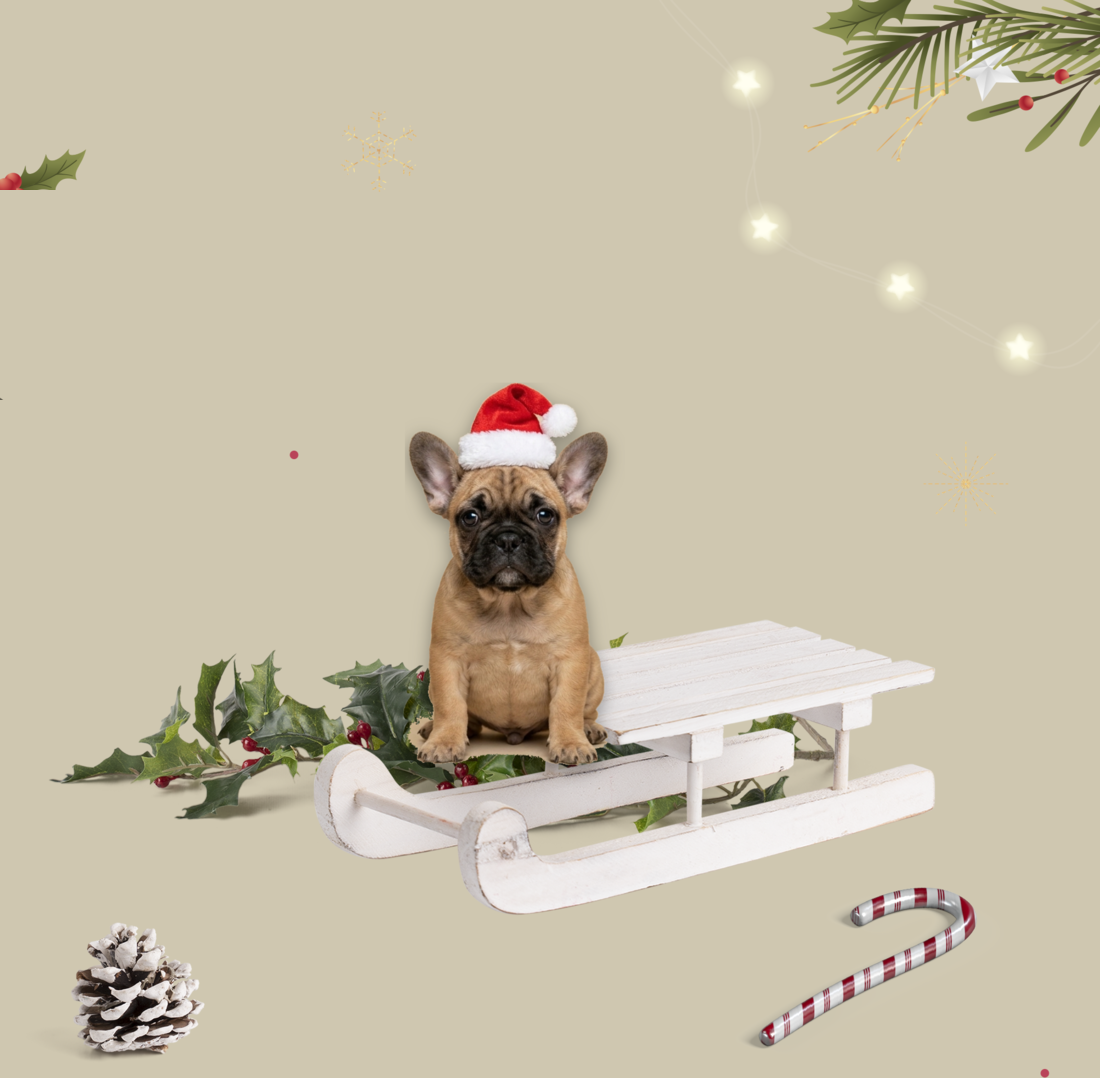
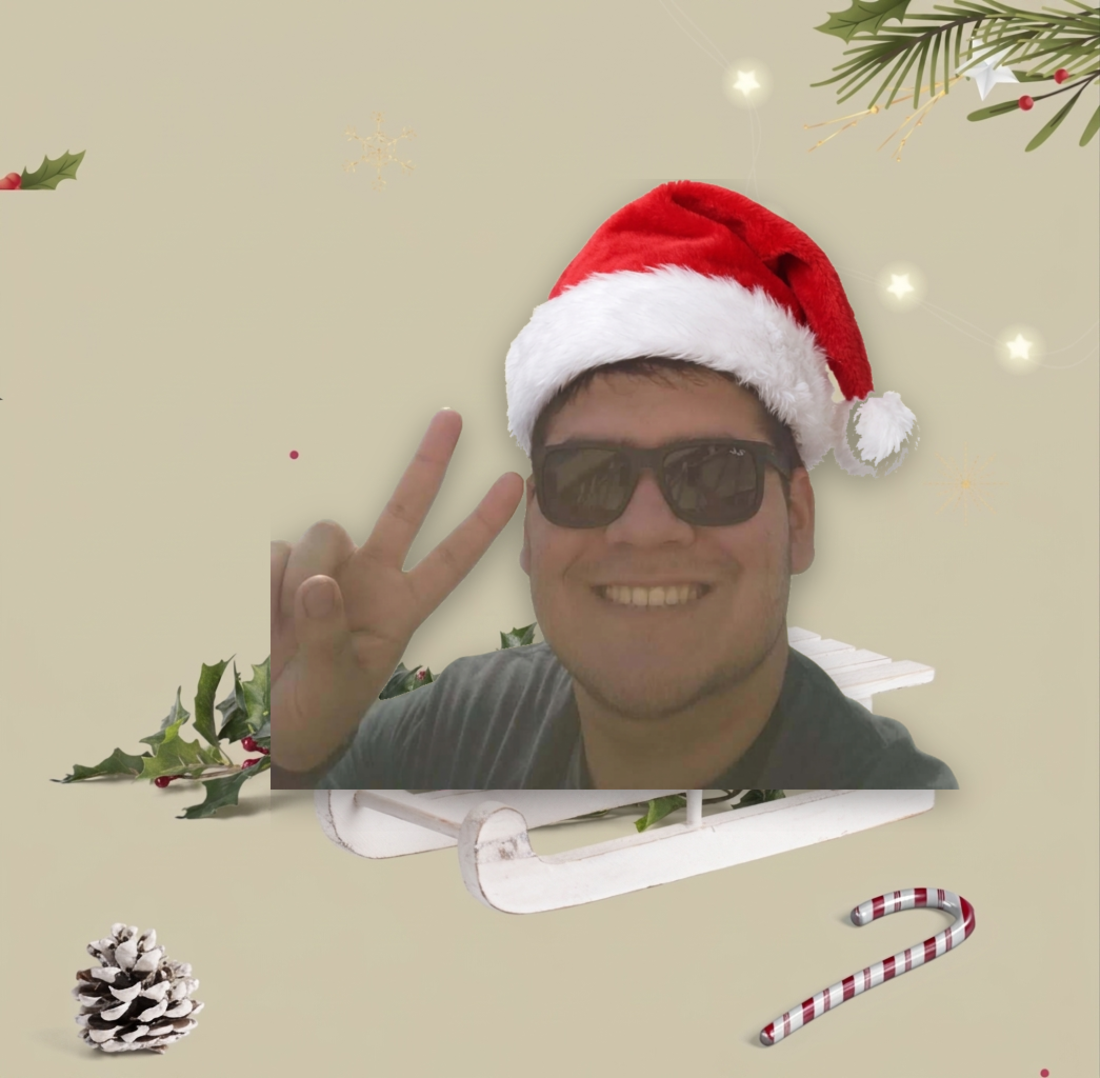
Sorteo individual por clic: derangement secreto + revelación única por usuario

Changed region(s): [[0.2164, 0.1531, 0.8655, 0.7653], [0.0927, 0.8571, 0.1855, 0.9796], [0.8655, 0.0306, 0.9273, 0.0612]]

diff --git a/backend/scripts/smoke_test.py b/backend/scripts/smoke_test.py
@@ -9,7 +9,7 @@ import re
 from fastapi.testclient import TestClient
 
 from app.main import app
-from app.models import Assignment
+from app.models import Assignment, Player
 
 # Captura los códigos "enviados por correo" (modo consola del emailer)
 codigos: dict[str, str] = {}
@@ -177,27 +177,57 @@ def main():
         assert r.status_code == 200, r.text
         print("== Enriquecer (og-tags):", r.json(), "==")
 
-        # ---- Sorteo ----
+        # ---- Sorteo individual por clics ----
         # Sin sesión de admin debe rechazar (quitamos la cookie primero)
         c.cookies.delete("admin_sesion")
-        r = c.post("/api/admin/sorteo")
-        assert r.status_code == 401, "sorteo sin admin debió dar 401"
-        c.post("/api/admin/login", json={"password": "admin-dev"})
-        r = c.post("/api/admin/sorteo")
-        assert r.status_code == 200, r.text
-        print("== Sorteo:", r.json(), "==")
-        r = c.post("/api/admin/sorteo")
-        assert r.status_code == 409, "sorteo doble debió dar 409"
+        n = len(c.get("/api/participantes").json())  # total de participantes (incluye datos reales)
+        r = c.get("/api/mi-amigo")
+        assert r.status_code == 404, "mi-amigo antes de revelar debió dar 404"
+        r = c.post("/api/sortear")
+        assert r.status_code == 200, f"primer clic debe crear el sorteo: {r.text}"
 
-        # Verificar derangement y unicidad en la BD
+        # El sorteo se creó al vuelo: config pública lo refleja
+        cfg = c.get("/api/participantes/config").json()
+        assert cfg["draw_done"] is True, cfg
+
+        # Repetir el clic da SIEMPRE el mismo asignado (nada de repetidos)
+        r = c.post("/api/sortear")
+        assert r.status_code == 200, r.text
+        primer_amigo = r.json()["name"]
+        r = c.post("/api/sortear")
+        assert r.json()["name"] == primer_amigo, "el asignado no debe cambiar entre clics"
+
+        # Cada participante revela una sola vez y todos los receptores únicos
         from app.database import SessionLocal
+        receptores = [primer_amigo]
+        for _, email in AMIGOS[1:]:
+            c.post("/api/auth/salir")
+            pedir_y_verificar(c, email)
+            r = c.get("/api/mi-amigo")
+            assert r.status_code == 404, "sin revelar, mi-amigo debió dar 404"
+            r = c.post("/api/sortear")
+            assert r.status_code == 200, r.text
+            receptores.append(r.json()["name"])
+            r = c.get("/api/mi-amigo")
+            assert r.status_code == 200, r.text
+            assert r.json()["name"] == receptores[-1]
+
+        # Nadie se regala a sí mismo ni receptores repetidos
         db = SessionLocal()
         asignaciones = db.query(Assignment).all()
-        assert len(asignaciones) == 3
+        assert len(asignaciones) == n
         assert all(a.giver_id != a.receiver_id for a in asignaciones), "alguien se regaló a sí mismo"
-        assert len({a.giver_id for a in asignaciones}) == 3
-        assert len({a.receiver_id for a in asignaciones}) == 3
+        assert len({a.giver_id for a in asignaciones}) == n
+        assert len({a.receiver_id for a in asignaciones}) == n, "un receptor se repitió"
+        # Los 3 participantes de prueba sí deben quedar revelados
+        correos_prueba = [e for _, e in AMIGOS]
+        for email_prueba in correos_prueba:
+            pid = db.query(Player).filter(Player.email == email_prueba).first().id
+            a = db.query(Assignment).filter(Assignment.giver_id == pid).first()
+            assert a is not None and a.revealed_at is not None, f"{email_prueba} sin revelar"
         db.close()
+        print("== Sorteo por clics: sin repetidos, sin auto-regalo, idempotente ==")
+        print("   asignaciones:", " | ".join(receptores))
 
         # Cada quien ve solo a su asignado
         for _, email in AMIGOS:
@@ -210,12 +240,13 @@ def main():
 
         # ---- Público ----
         part = c.get("/api/participantes").json()
-        assert len(part) == 3 and all("email" not in p for p in part), part
+        assert len(part) >= 3 and all("email" not in p for p in part), part
         cfg = c.get("/api/participantes/config").json()
         assert cfg["budget_max"] == 50 and cfg["draw_done"] is True, cfg
         print("== Participantes públicos sin correos; config pública OK ==")
 
-        # ---- Deshacer y rehacer ----
+        # ---- Deshacer y rehacer (requiere ser admin de nuevo) ----
+        c.post("/api/admin/login", json={"password": "admin-dev"})
         r = c.delete("/api/admin/sorteo")
         assert r.status_code == 204, r.text
         r = c.post("/api/admin/sorteo")

diff --git a/backend/app/routers/me.py b/backend/app/routers/me.py
@@ -1,25 +1,67 @@
-"""Mi amigo asignado (solo visible después del sorteo)."""
+"""Mi amigo asignado: revelación individual con clic y vista posterior.
+
+El sorteo completo se genera en secreto con el PRIMER clic que reciba (o
+cuando el admin lo lanza); cada participante al tocar "Sortear" solo
+revela la asignación que ya le correspondía. Así ningún receptor se
+repite, nadie se regala a sí mismo y el último de la fila también
+tiene a alguien válido.
+"""
+
+from threading import Lock
 
 from fastapi import APIRouter, Depends, HTTPException, status
 from sqlalchemy.orm import Session
 
 from ..database import get_db
-from ..draw import get_assignment
-from ..models import Player
+from ..draw import get_assignment, run_draw
+from ..models import Player, utcnow
 from ..schemas import ReceiverOut, WishlistItemOut
 from ..security import get_current_player
+from .participants import get_settings
 
-router = APIRouter(prefix="/api/mi-amigo", tags=["draw"])
+router = APIRouter(prefix="/api", tags=["draw"])
+
+# Un solo proceso: evita que dos clics simultáneos creen dos sorteos
+_sorteo_lock = Lock()
 
 
-@router.get("", response_model=ReceiverOut)
-def mi_amigo(db: Session = Depends(get_db), player: Player = Depends(get_current_player)):
-    """A quién le regalo yo, con su lista de deseos. Requiere sorteo hecho."""
+@router.post("/sortear", response_model=ReceiverOut)
+def sortear(db: Session = Depends(get_db), player: Player = Depends(get_current_player)):
+    """Revela a quién le regalo yo. Si el sorteo no existe aún, se crea."""
+    with _sorteo_lock:
+        s = get_settings(db)
+        if not s.draw_done:
+            player_ids = [p.id for p in db.query(Player).all()]
+            try:
+                run_draw(db, player_ids)
+            except ValueError as exc:
+                raise HTTPException(status.HTTP_409_CONFLICT, str(exc))
+            s.draw_done = True
+            s.draw_done_at = utcnow()
+            db.commit()
+
     assignment = get_assignment(db, player.id)
     if not assignment:
+        raise HTTPException(status.HTTP_404_NOT_FOUND, "No tienes asignación")
+    if assignment.revealed_at is None:
+        assignment.revealed_at = utcnow()
+        db.commit()
+
+    receiver = db.get(Player, assignment.receiver_id)
+    return ReceiverOut(
+        name=receiver.name,
+        wishlist=[WishlistItemOut.model_validate(i) for i in receiver.wishlist],
+    )
+
+
+@router.get("/mi-amigo", response_model=ReceiverOut)
+def mi_amigo(db: Session = Depends(get_db), player: Player = Depends(get_current_player)):
+    """A quién le regalo yo, con su lista de deseos (tras haber sorteado)."""
+    assignment = get_assignment(db, player.id)
+    if not assignment or assignment.revealed_at is None:
         raise HTTPException(
             status.HTTP_404_NOT_FOUND,
-            "El sorteo aún no se ha realizado o no tienes asignación",
+            "Aún no has realizado tu sorteo",
         )
     receiver = db.get(Player, assignment.receiver_id)
     return ReceiverOut(

diff --git a/backend/app/main.py b/backend/app/main.py
@@ -51,6 +51,14 @@ app.include_router(admin.router)
 def startup() -> None:
     # Prototipo: crea las tablas si no existen. En producción usar Alembic.
     Base.metadata.create_all(engine)
+    # Migración idempotente: columna revelada_at (clic individual del sorteo)
+    from sqlalchemy import text
+
+    try:
+        with engine.begin() as conn:
+            conn.execute(text("ALTER TABLE assignments ADD COLUMN revealed_at TIMESTAMP"))
+    except Exception:
+        pass  # ya existe
 
 
 @app.get("/api/salud", tags=["meta"])

diff --git a/backend/app/models.py b/backend/app/models.py
@@ -84,6 +84,8 @@ class Assignment(Base):
     id: Mapped[int] = mapped_column(primary_key=True)
     giver_id: Mapped[int] = mapped_column(ForeignKey("players.id", ondelete="CASCADE"), unique=True)
     receiver_id: Mapped[int] = mapped_column(ForeignKey("players.id", ondelete="CASCADE"))
+    # Momento en que el participante hizo clic en "Sortear" y vio su asignación
+    revealed_at: Mapped[datetime | None] = mapped_column(DateTime, default=None)
     created_at: Mapped[datetime] = mapped_column(DateTime, default=utcnow)
 
 

diff --git a/AGENTS.md b/AGENTS.md
@@ -19,7 +19,7 @@ Funciona y está probado de punta a punta:
 - ✅ Auth por código de 6 dígitos enviado por correo (sin contraseñas), JWT en cookie HttpOnly
 - ✅ Auto-registro con **enlace de invitación** (`/ingresar?inv=CODIGO`): los amigos se registran solos con nombre + correo; NO hay botón "Ingresar" en la UI (decisión del usuario: la entrada es solo por el enlace de invitación)
 - ✅ Wishlist CRUD + vista previa de imagen + **subida de imágenes desde el dispositivo** (blobs en la BD, límite 50 MB, servidas por `/api/imagenes/{id}`)
-- ✅ Sorteo tipo derangement (nadie se regala a sí mismo), deshacer/rehacer
+- ✅ **Sorteo individual por clic** (`POST /api/sortear`): con el primer clic de cualquier participante se genera en secreto un derangement completo (nadie se auto-regala, ningún receptor se repite); cada clic solo REVELA la asignación ya creada (`assignments.revealed_at`). `GET /api/mi-amigo` da 404 hasta que el participante haya tocado "Realizar mi sorteo". El admin puede pre-generar o deshacer/rehacer desde el panel.
 - ✅ Panel admin (contraseña en `ADMIN_PASSWORD`): participantes, presupuesto, fecha, sorteo, enlace de invitación
 - ✅ Emails reales vía SMTP de Proton (configurado en `backend/.env`, ver abajo)
 - ✅ Rediseño con el mockup del usuario (PSD en capas): sidebar verde, fondo beige `#CFC7B0`, Playfair Display + Jost, muñeco de nieve reemplazado por un perrito con gorro de Santa (generado con IA)
@@ -37,7 +37,7 @@ cd ../frontend && npm install
 ./tunel.sh stop     # detener
 
 # Pruebas:
-cd backend && .venv/bin/python scripts/smoke_test.py       # flujo completo (crea datos de prueba)
+cd backend && .venv/bin/python scripts/smoke_test.py       # flujo completo (usa su propia BD: data/smoke.db)
 .venv/bin/python scripts/prueba_correo.py TU@CORREO.com    # prueba SMTP real
 ```
 
